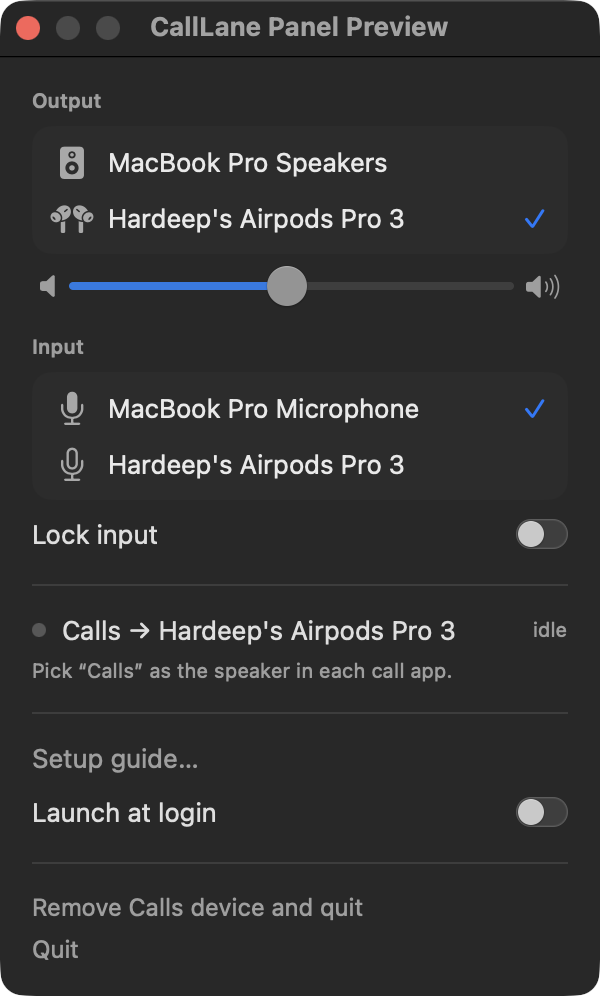
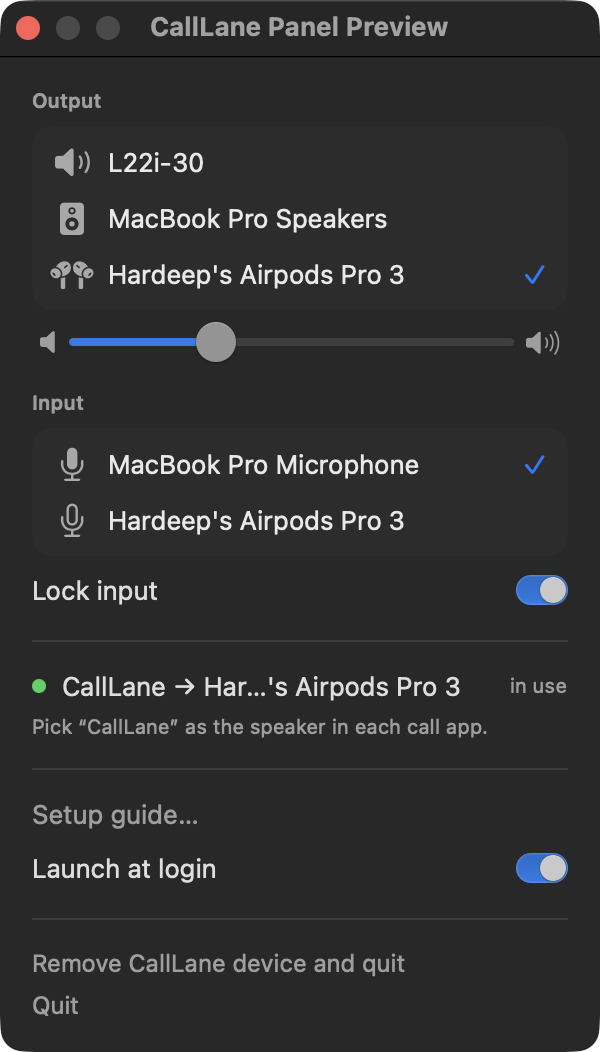
feat: name the device CallLane, rename an existing Calls device in place
The aggregate is now called CallLane so a call app's speaker list says what
the user is using. The UID is unchanged, so call apps keep their selection.
A device left by v0.1.0 is renamed before the system-output guard, so the
rename also happens when the old device is the default output at launch.

README opens with the two problems: ducked media and the Bluetooth headset
profile. Screenshots refreshed.

diff --git a/Sources/CallLane/Controller.swift b/Sources/CallLane/Controller.swift
@@ -4,7 +4,7 @@ import Observation
 
 @Observable
 final class Controller {
-    static let callsName = "Calls"
+    static let callsName = "CallLane"
     static let callsUID = "dev.rav4nn.calllane.calls"
 
     private let audio: AudioSystem
@@ -80,8 +80,8 @@ final class Controller {
         watchRunning()
     }
 
-    /// A call app opening Calls fires no system-level event, so watch the device itself.
-    /// Calls gets a new id whenever it is recreated; re-register when that happens.
+    /// A call app opening CallLane fires no system-level event, so watch the device itself.
+    /// CallLane gets a new id whenever it is recreated; re-register when that happens.
     private func watchRunning() {
         guard callsDevice?.id != runningWatched else { return }
         runningToken = nil
@@ -108,7 +108,7 @@ final class Controller {
         }
     }
 
-    /// The real output Calls should wrap, or the system should fall back to: the wrapped
+    /// The real output CallLane should wrap, or the system should fall back to: the wrapped
     /// device when it is still present, else any real output device.
     private func realOutput(for calls: AudioDevice) -> AudioDevice? {
         if let uid = audio.aggregateSubDeviceUID(calls.id), let d = devices.first(where: { $0.uid == uid && $0.hasOutput }) {
@@ -120,24 +120,27 @@ final class Controller {
     private func reconcileCalls() {
         guard let outID = defaultOutputID, let out = devices.first(where: { $0.id == outID }) else { return }
         guard let calls = callsDevice else {
-            if attempt("Could not create Calls", {
+            if attempt("Could not create CallLane", {
                 _ = try audio.createAggregate(name: Self.callsName, uid: Self.callsUID, subDeviceUID: out.uid)
             }) { status = "" }
             return
         }
+        if calls.name != Self.callsName {   // device created by an older version
+            attempt("Could not rename \(calls.name)", { try audio.setName(calls.id, Self.callsName) })
+        }
         if out.uid == Self.callsUID {
-            // Calls must never be the system output: the volume keys stop working.
+            // CallLane must never be the system output: the volume keys stop working.
             guard let real = realOutput(for: calls) else {
-                status = "Calls is the system output and no other output exists."
+                status = "CallLane is the system output and no other output exists."
                 return
             }
-            if attempt("Could not leave Calls", { try audio.setDefaultOutput(real.id) }) {
-                status = "Calls is for call apps only. Output set back to \(real.name)."
+            if attempt("Could not leave CallLane", { try audio.setDefaultOutput(real.id) }) {
+                status = "CallLane is for call apps only. Output set back to \(real.name)."
             }
             return
         }
         if audio.aggregateSubDeviceUID(calls.id) != out.uid {
-            if attempt("Could not point Calls at \(out.name)", { try audio.setAggregateSubDevice(calls.id, uid: out.uid) }) {
+            if attempt("Could not point CallLane at \(out.name)", { try audio.setAggregateSubDevice(calls.id, uid: out.uid) }) {
                 status = ""
             }
         }
@@ -177,17 +180,17 @@ final class Controller {
         outputVolume = audio.volume(id, scope: .output)
     }
 
-    /// Moves the system output off Calls first, then destroys it. Returns false and keeps
-    /// Calls when the output cannot be moved, so macOS never holds a destroyed default.
+    /// Moves the system output off CallLane first, then destroys it. Returns false and keeps
+    /// CallLane when the output cannot be moved, so macOS never holds a destroyed default.
     @discardableResult
     func removeCallsDevice() -> Bool {
         refresh()
         guard let calls = callsDevice else { return true }
         if defaultOutputID == calls.id {
             guard let real = realOutput(for: calls),
-                  attempt("Could not leave Calls", { try audio.setDefaultOutput(real.id) }) else { return false }
+                  attempt("Could not leave CallLane", { try audio.setDefaultOutput(real.id) }) else { return false }
         }
-        let ok = attempt("Could not remove Calls", { try audio.destroyAggregate(calls.id) })
+        let ok = attempt("Could not remove CallLane", { try audio.destroyAggregate(calls.id) })
         refresh()
         return ok
     }

diff --git a/Sources/CallLane/SetupView.swift b/Sources/CallLane/SetupView.swift
@@ -2,19 +2,19 @@ import SwiftUI
 
 struct SetupView: View {
     private let apps: [(String, String)] = [
-        ("FaceTime", "Menu bar → Video → Output → Calls"),
-        ("Zoom", "Settings → Audio → Speaker → Calls"),
-        ("Google Meet (Chrome)", "In a call: speaker menu in the bottom bar → Calls. Or ⋮ → Settings → Audio → Speakers"),
-        ("Slack", "Preferences → Audio & video → Speaker → Calls"),
-        ("Microsoft Teams", "Settings → Devices → Speaker → Calls"),
-        ("Discord", "User Settings → Voice & Video → Output Device → Calls"),
-        ("WhatsApp", "Settings → Calls → Speaker → Calls"),
+        ("FaceTime", "Menu bar → Video → Output → CallLane"),
+        ("Zoom", "Settings → Audio → Speaker → CallLane"),
+        ("Google Meet (Chrome)", "In a call: speaker menu in the bottom bar → CallLane. Or ⋮ → Settings → Audio → Speakers"),
+        ("Slack", "Preferences → Audio & video → Speaker → CallLane"),
+        ("Microsoft Teams", "Settings → Devices → Speaker → CallLane"),
+        ("Discord", "User Settings → Voice & Video → Output Device → CallLane"),
+        ("WhatsApp", "Settings → Calls → Speaker → CallLane"),
     ]
 
     var body: some View {
         VStack(alignment: .leading, spacing: 14) {
-            Text("Set “Calls” as the speaker in each call app").font(.headline)
-            Text("Do this once per app. Keep the microphone on your Mac’s built-in mic or a USB mic, not the AirPods mic. Keep your headphones as the system output; CallLane reverts it if “Calls” is picked there.")
+            Text("Set “CallLane” as the speaker in each call app").font(.headline)
+            Text("Do this once per app. Keep the microphone on your Mac’s built-in mic or a USB mic, not the AirPods mic. Keep your headphones as the system output; CallLane reverts it if “CallLane” is picked there.")
                 .font(.callout)
                 .foregroundStyle(.secondary)
                 .fixedSize(horizontal: false, vertical: true)
@@ -36,7 +36,7 @@ struct SetupView: View {
             }
             .background(.regularMaterial, in: RoundedRectangle(cornerRadius: 10))
 
-            Text("Safari has no per-site speaker picker, so calls in Safari cannot use Calls.")
+            Text("Safari has no per-site speaker picker, so calls in Safari cannot use CallLane.")
                 .font(.caption)
                 .foregroundStyle(.secondary)
                 .fixedSize(horizontal: false, vertical: true)

diff --git a/Tests/CallLaneTests/ControllerTests.swift b/Tests/CallLaneTests/ControllerTests.swift
@@ -30,9 +30,9 @@ import CoreAudio
 
     @Test func createsCallsAroundDefaultOutput() {
         let c = makeController()
-        #expect(c.callsDevice?.name == "Calls")
+        #expect(c.callsDevice?.name == "CallLane")
         #expect(c.callsWraps?.id == airpods)
-        #expect(!c.outputs.contains { $0.uid == Controller.callsUID }, "Calls is hidden from the output picker")
+        #expect(!c.outputs.contains { $0.uid == Controller.callsUID }, "CallLane is hidden from the output picker")
     }
 
     @Test func callsFollowsDefaultOutput() {
@@ -76,7 +76,7 @@ import CoreAudio
         let c = makeController()
         let calls = c.callsDevice!.id
         fake.remove(airpods)                 // wrapped device unplugged
-        fake.defaultOut = calls              // and Calls became the system output
+        fake.defaultOut = calls              // and CallLane became the system output
         c.reconcile()
         #expect(fake.defaultOut == speakers)
         #expect(c.status.contains("call apps only"))
@@ -112,7 +112,7 @@ import CoreAudio
         c.start()
         let calls = c.callsDevice!.id
         let fire = fake.handlers[calls]?[kAudioDevicePropertyDeviceIsRunningSomewhere]
-        #expect(fire != nil, "running listener is registered on the Calls device itself")
+        #expect(fire != nil, "running listener is registered on the CallLane device itself")
         #expect(!c.callsInUse)
         fake.running.insert(calls)
         fire?()
@@ -132,5 +132,22 @@ import CoreAudio
         let new = c.callsDevice!.id
         #expect(new != old)
         #expect(fake.handlers[new]?[kAudioDevicePropertyDeviceIsRunningSomewhere] != nil)
+    }
+
+    @Test func renamesDeviceFromOlderVersion() {
+        let old = fake.addDevice("Calls", uid: Controller.callsUID, transport: kAudioDeviceTransportTypeAggregate)
+        fake.aggregates[old] = "ap:out"
+        let c = makeController()
+        #expect(c.callsDevice?.id == old, "reuses the device by UID")
+        #expect(c.callsDevice?.name == "CallLane")
+    }
+
+    @Test func renamesOldDeviceEvenWhenItIsTheSystemOutput() {
+        let old = fake.addDevice("Calls", uid: Controller.callsUID, transport: kAudioDeviceTransportTypeAggregate)
+        fake.aggregates[old] = "ap:out"
+        fake.defaultOut = old
+        let c = makeController()
+        #expect(fake.defaultOut == airpods)
+        #expect(c.callsDevice?.name == "CallLane")
     }
 }

diff --git a/Sources/CallLane/MenuView.swift b/Sources/CallLane/MenuView.swift
@@ -65,7 +65,7 @@ struct MenuView: View {
 
             Divider()
             VStack(alignment: .leading, spacing: 6) {
-                footerButton("Remove Calls device and quit") {
+                footerButton("Remove CallLane device and quit") {
                     if controller.removeCallsDevice() { NSApp.terminate(nil) }
                 }
                 footerButton("Quit") { NSApp.terminate(nil) }
@@ -178,7 +178,7 @@ struct MenuView: View {
                 Circle()
                     .fill(controller.callsInUse ? Color.green : Color.secondary.opacity(0.4))
                     .frame(width: 7, height: 7)
-                Text("Calls → \(controller.callsWraps?.name ?? "no output")")
+                Text("CallLane → \(controller.callsWraps?.name ?? "no output")")
                     .font(.body)
                     .lineLimit(1)
                     .truncationMode(.middle)
@@ -190,7 +190,7 @@ struct MenuView: View {
             if !controller.status.isEmpty {
                 note(controller.status, color: .orange)
             }
-            note("Pick “Calls” as the speaker in each call app.")
+            note("Pick “CallLane” as the speaker in each call app.")
         }
     }
 

diff --git a/Sources/CallLane/AudioSystem.swift b/Sources/CallLane/AudioSystem.swift
@@ -55,6 +55,7 @@ protocol AudioSystem {
     func createAggregate(name: String, uid: String, subDeviceUID: String) throws -> AudioObjectID
     func aggregateSubDeviceUID(_ id: AudioObjectID) -> String?
     func setAggregateSubDevice(_ id: AudioObjectID, uid: String) throws
+    func setName(_ id: AudioObjectID, _ name: String) throws
     func destroyAggregate(_ id: AudioObjectID) throws
     /// Returns nil when CoreAudio refuses the registration.
     func listen(_ object: AudioObjectID, _ selector: AudioObjectPropertySelector, _ handler: @escaping () -> Void) -> ListenerToken?
@@ -189,6 +190,10 @@ final class CoreAudioSystem: AudioSystem {
         let a = address(kAudioAggregateDevicePropertyFullSubDeviceList)
         try set(id, a, [uid] as CFArray, what: "set aggregate sub-device")
         try? set(id, address(kAudioAggregateDevicePropertyMainSubDevice), uid as CFString, what: "set main sub-device")
+    }
+
+    func setName(_ id: AudioObjectID, _ name: String) throws {
+        try set(id, address(kAudioObjectPropertyName), name as CFString, what: "rename device")
     }
 
     func destroyAggregate(_ id: AudioObjectID) throws {

diff --git a/Tests/CallLaneTests/FakeAudioSystem.swift b/Tests/CallLaneTests/FakeAudioSystem.swift
@@ -43,6 +43,9 @@ final class FakeAudioSystem: AudioSystem {
     }
     func aggregateSubDeviceUID(_ id: AudioObjectID) -> String? { aggregates[id] }
     func setAggregateSubDevice(_ id: AudioObjectID, uid: String) throws { aggregates[id] = uid }
+    func setName(_ id: AudioObjectID, _ name: String) throws {
+        list = list.map { $0.id == id ? AudioDevice(id: $0.id, uid: $0.uid, name: name, transport: $0.transport, hasInput: $0.hasInput, hasOutput: $0.hasOutput) : $0 }
+    }
     func destroyAggregate(_ id: AudioObjectID) throws { aggregates[id] = nil; remove(id) }
     func listen(_ object: AudioObjectID, _ selector: AudioObjectPropertySelector, _ handler: @escaping () -> Void) -> ListenerToken? {
         handlers[object, default: [:]][selector] = handler

diff --git a/Casks/calllane.rb b/Casks/calllane.rb
@@ -5,7 +5,7 @@ cask "calllane" do
 
   url "https://github.com/rav4nn/calllane/releases/download/v#{version}/CallLane.zip"
   name "CallLane"
-  desc "Menu bar app that stops call audio ducking with a Calls output device"
+  desc "Menu bar app that stops call audio ducking with a CallLane output device"
   homepage "https://github.com/rav4nn/calllane"
 
   depends_on macos: :sonoma

diff --git a/README.md b/README.md
@@ -1,18 +1,28 @@
 # CallLane
 
-Keep your music loud while you are on a call. macOS lowers every other sound by about
-20 dB when a call app runs, and there is no setting to stop it. CallLane gives call
-apps their own output device, `Calls`, that wraps your real headphones. macOS ducks only
-the audio on the call app's device, so your media stays at full volume.
+Two things go wrong every time you join a call on a Mac with Bluetooth headphones.
 
-CallLane also pins your input to the mic you choose, so AirPods stay in the
-high-quality listening profile instead of the headset profile.
+1. **Your media gets quiet.** macOS lowers every other sound by about 20 dB the moment
+   a call app starts, and there is no setting to stop it. Music, video, and games stay
+   quiet until the call ends.
+2. **Your headphones drop to headset quality.** The call app switches to the headphones'
+   microphone. Bluetooth cannot stream high-quality audio and carry a mic at the same
+   time, so the headphones fall back to the low-quality headset profile. The MacBook's
+   built-in mic sounds better anyway.
+
+CallLane fixes both from the menu bar.
+
+- It gives call apps their own output device, `CallLane`, that wraps your real
+  headphones. macOS ducks only the audio on the call app's device, so everything else
+  stays at full volume.
+- It locks the input to the mic you choose, so your headphones stay in the
+  high-quality listening profile.
 
 No drivers. No kernel extensions. No permission prompts.
 
 <picture>
   <source media="(prefers-color-scheme: dark)" srcset="docs/panel-dark.png">
-  <img src="docs/panel-light.png" alt="CallLane panel: output and input pickers, volume slider, Calls status row" width="340">
+  <img src="docs/panel-light.png" alt="CallLane panel: output and input pickers, volume slider, CallLane status row" width="340">
 </picture>
 
 ## Install
@@ -33,35 +43,38 @@ Or build from source with the Xcode Command Line Tools: `git clone`, then `make 
 
 ## Use
 
-1. Launch CallLane. A phone icon appears in the menu bar. It creates the `Calls` device.
-2. In each call app, pick `Calls` as the speaker. Once per app. The setup guide in the
+1. Launch CallLane. A phone icon appears in the menu bar. It creates the `CallLane` device.
+2. In each call app, pick `CallLane` as the speaker. Once per app. The setup guide in the
    menu lists the exact path for FaceTime, Zoom, Meet, Slack, Teams, Discord, WhatsApp.
 3. Keep your headphones as the system output. Keep the microphone on your Mac's
    built-in mic or a USB mic, and turn on Lock input.
 
-The phone icon fills while a call app uses `Calls`.
+The phone icon fills while a call app uses `CallLane`.
 
 ## How it works
 
-`Calls` is a public CoreAudio aggregate device with one sub-device: your current
+`CallLane` is a public CoreAudio aggregate device with one sub-device: your current
 default output. CallLane rewrites the sub-device whenever your output changes, so
-`Calls` always plays through the headphones you are on. Call apps remember `Calls` by
+`CallLane` always plays through the headphones you are on. Call apps remember `CallLane` by
 its fixed UID across those changes.
+
+The volume keys still work during a call. They change the volume of your headphones,
+and the call plays through those headphones, so the call follows.
 
 ## Limits
 
 - Apple does not document that ducking stops at the aggregate boundary. A macOS update
   could change this.
-- Volume keys do nothing while `Calls` is the system output. CallLane reverts that
+- Volume keys do nothing while `CallLane` is the system output. CallLane reverts that
   selection and tells you.
-- Safari has no per-site speaker picker, so calls in Safari cannot use `Calls`.
-- Spatial Audio and head tracking may not apply to the call on `Calls`.
+- Safari has no per-site speaker picker, so calls in Safari cannot use `CallLane`.
+- Spatial Audio and head tracking may not apply to the call on `CallLane`.
 - Tested on macOS 26 with AirPods Pro 3. Runs on macOS 14 and later.
 
 ## Uninstall
 
-Menu → "Remove Calls device and quit", then `brew uninstall --cask calllane`.
-If you skip the first step, remove the `Calls` device in Audio MIDI Setup.
+Menu → "Remove CallLane device and quit", then `brew uninstall --cask calllane`.
+If you skip the first step, remove the `CallLane` device in Audio MIDI Setup.
 
 ## License
 
